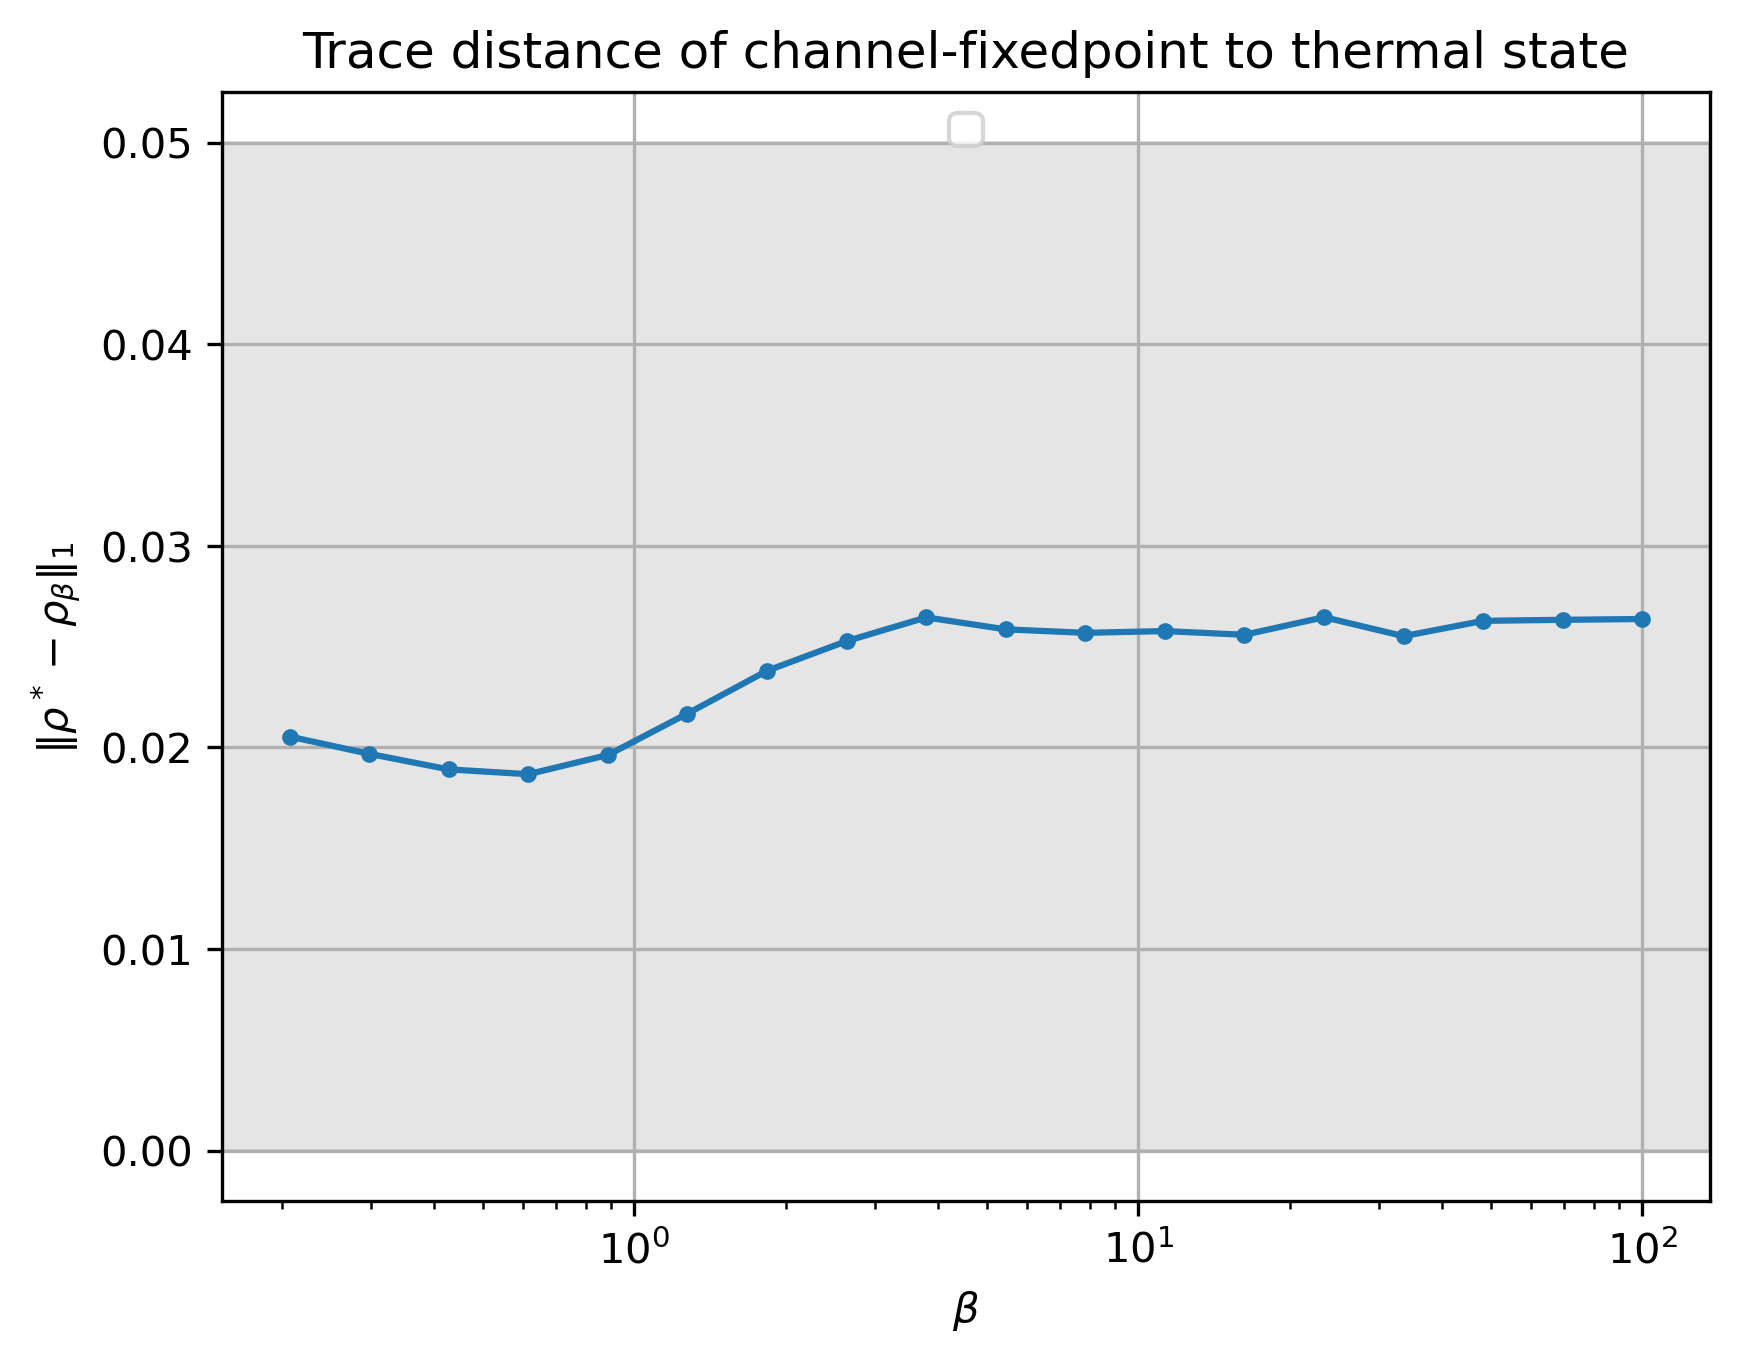
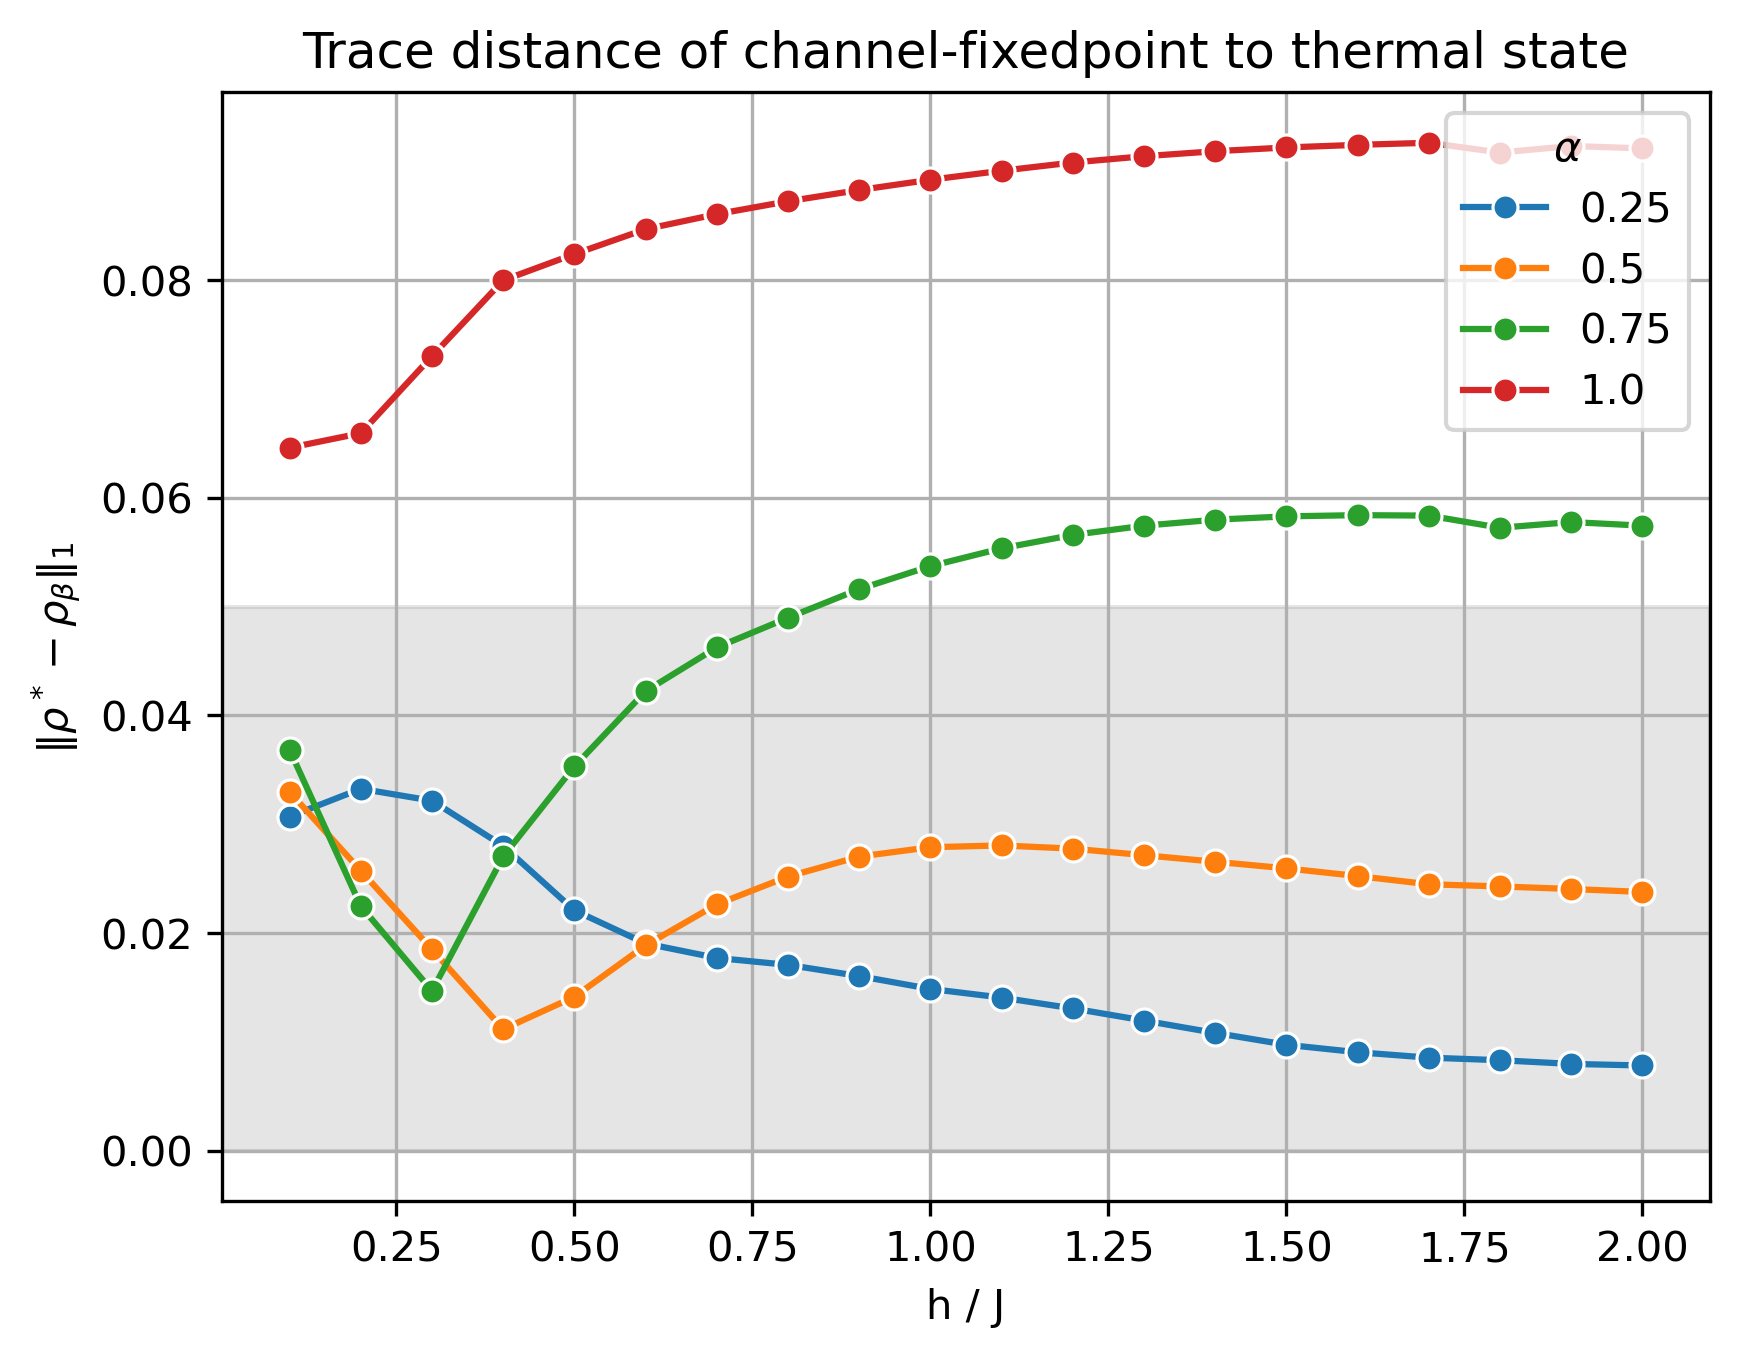
fixed mixed-state only simulation

diff --git a/cooling_channel.py b/cooling_channel.py
@@ -36,7 +36,7 @@ def evaluate_sqrt_gaussian(sigma:float, t:float):
 
 
 ### this is a very particular op_set for testing 
-def construct_opset(num_qubits:int, *, type:str = "XX2", output:bool = False):
+def construct_opset(num_qubits:int, *, type:str = "XZ", output:bool = False):
     with qml.QueuingManager.stop_recording():
         op_set = []
 
@@ -140,11 +140,13 @@ def initialize_rho_env(wire:int, beta:float, omega:float, *, seed:int, mixed:boo
         K3 = np.sqrt(p1) * np.array([[0, 0], [0, 1]], dtype = np.complex64)
         qml.QubitChannel([K0, K1, K2, K3], wires=wire)
     else:
+        raise NotImplementedError('pure state simulation not supported')
         # exp(beta Z) is diagonal, so we sample as classical mixture
-        qml.Reset(wires=wire)
-        rng = random.Random(seed)
-        if rng.uniform(0.0, 1.0) > p0:
-            qml.PauliX(wires=wire)
+        #qml.Reset(wires=wire)
+        #qml.measure(wires=wire, reset=True)
+        #rng = random.Random(seed)
+        #if rng.uniform(0.0, 1.0) > p0:
+        #    qml.PauliX(wires=wire)
 
     return None
 
